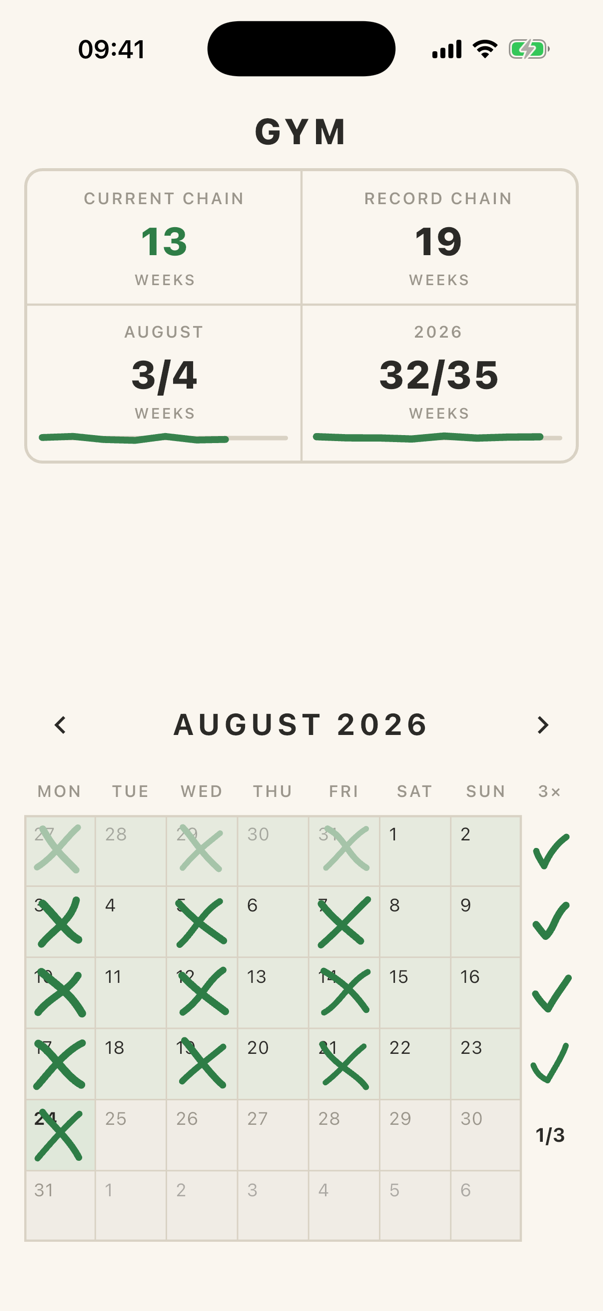
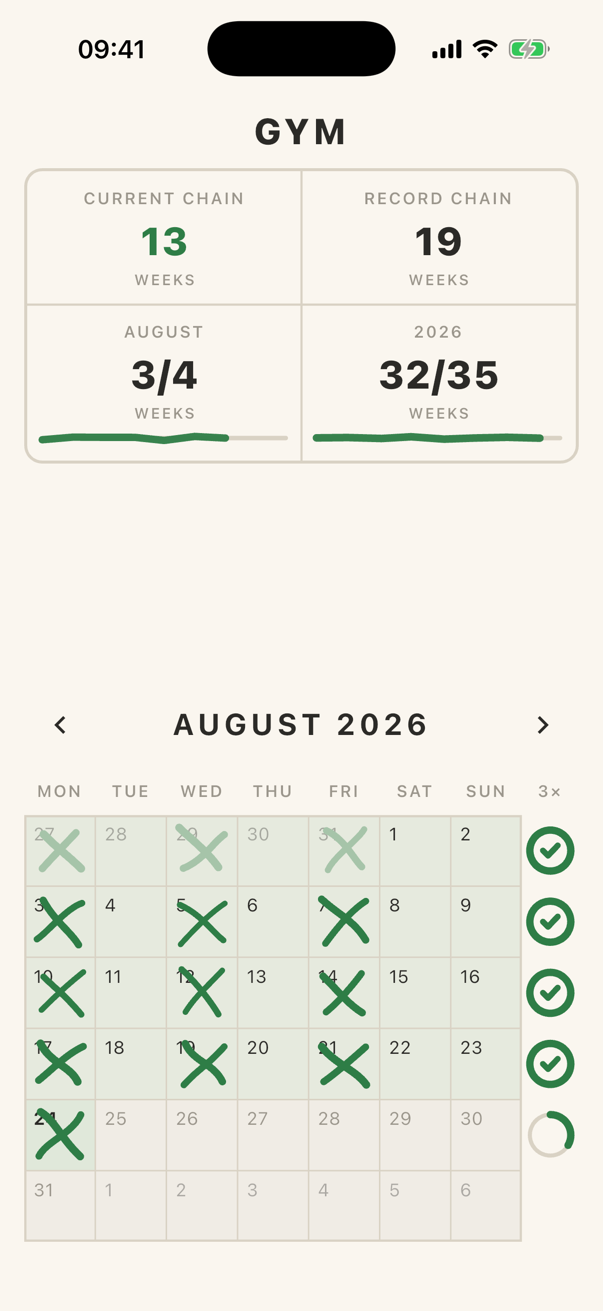
Landing: goal screenshots with the progress ring
The weekly calendar, weekly year and monthly year shots now show the
ring that replaced the tick in app 1.2.0. Merge once 1.2.0 is live.

diff --git a/index.html b/index.html
@@ -161,21 +161,21 @@
     <figure>
       <picture>
         <source srcset="img/weekly-calendar-dark.png" media="(prefers-color-scheme: dark)">
-        <img src="img/weekly-calendar-light.png" width="603" height="1311" alt="A Gym habit with a 3× a week goal: Mondays, Wednesdays and Fridays X-ed in August, a tick in the margin beside each met week, and a 13-week chain.">
+        <img src="img/weekly-calendar-light.png" width="603" height="1311" alt="A Gym habit with a 3× a week goal: Mondays, Wednesdays and Fridays X-ed in August, a full ring with a check beside each met week, this week's ring one third full, and a 13-week chain.">
       </picture>
       <figcaption>Three times a week.</figcaption>
     </figure>
     <figure>
       <picture>
         <source srcset="img/weekly-year-dark.png" media="(prefers-color-scheme: dark)">
-        <img src="img/weekly-year-light.png" width="603" height="1311" alt="The Gym habit's year: every met week washed in green, and a tick beside each month where every week met the goal.">
+        <img src="img/weekly-year-light.png" width="603" height="1311" alt="The Gym habit's year: every met week washed in green, and a checked ring beside each month where every week met the goal.">
       </picture>
       <figcaption>Every met week counts.</figcaption>
     </figure>
     <figure>
       <picture>
         <source srcset="img/monthly-year-dark.png" media="(prefers-color-scheme: dark)">
-        <img src="img/monthly-year-light.png" width="603" height="1311" alt="A Call home habit with a 4× a month goal: a tick beside every month but April, which shows 2/4 and is faded.">
+        <img src="img/monthly-year-light.png" width="603" height="1311" alt="A Call home habit with a 4× a month goal: a checked ring beside every month but April, whose ring is half full and faded.">
       </picture>
       <figcaption>Or four times a month.</figcaption>
     </figure>
